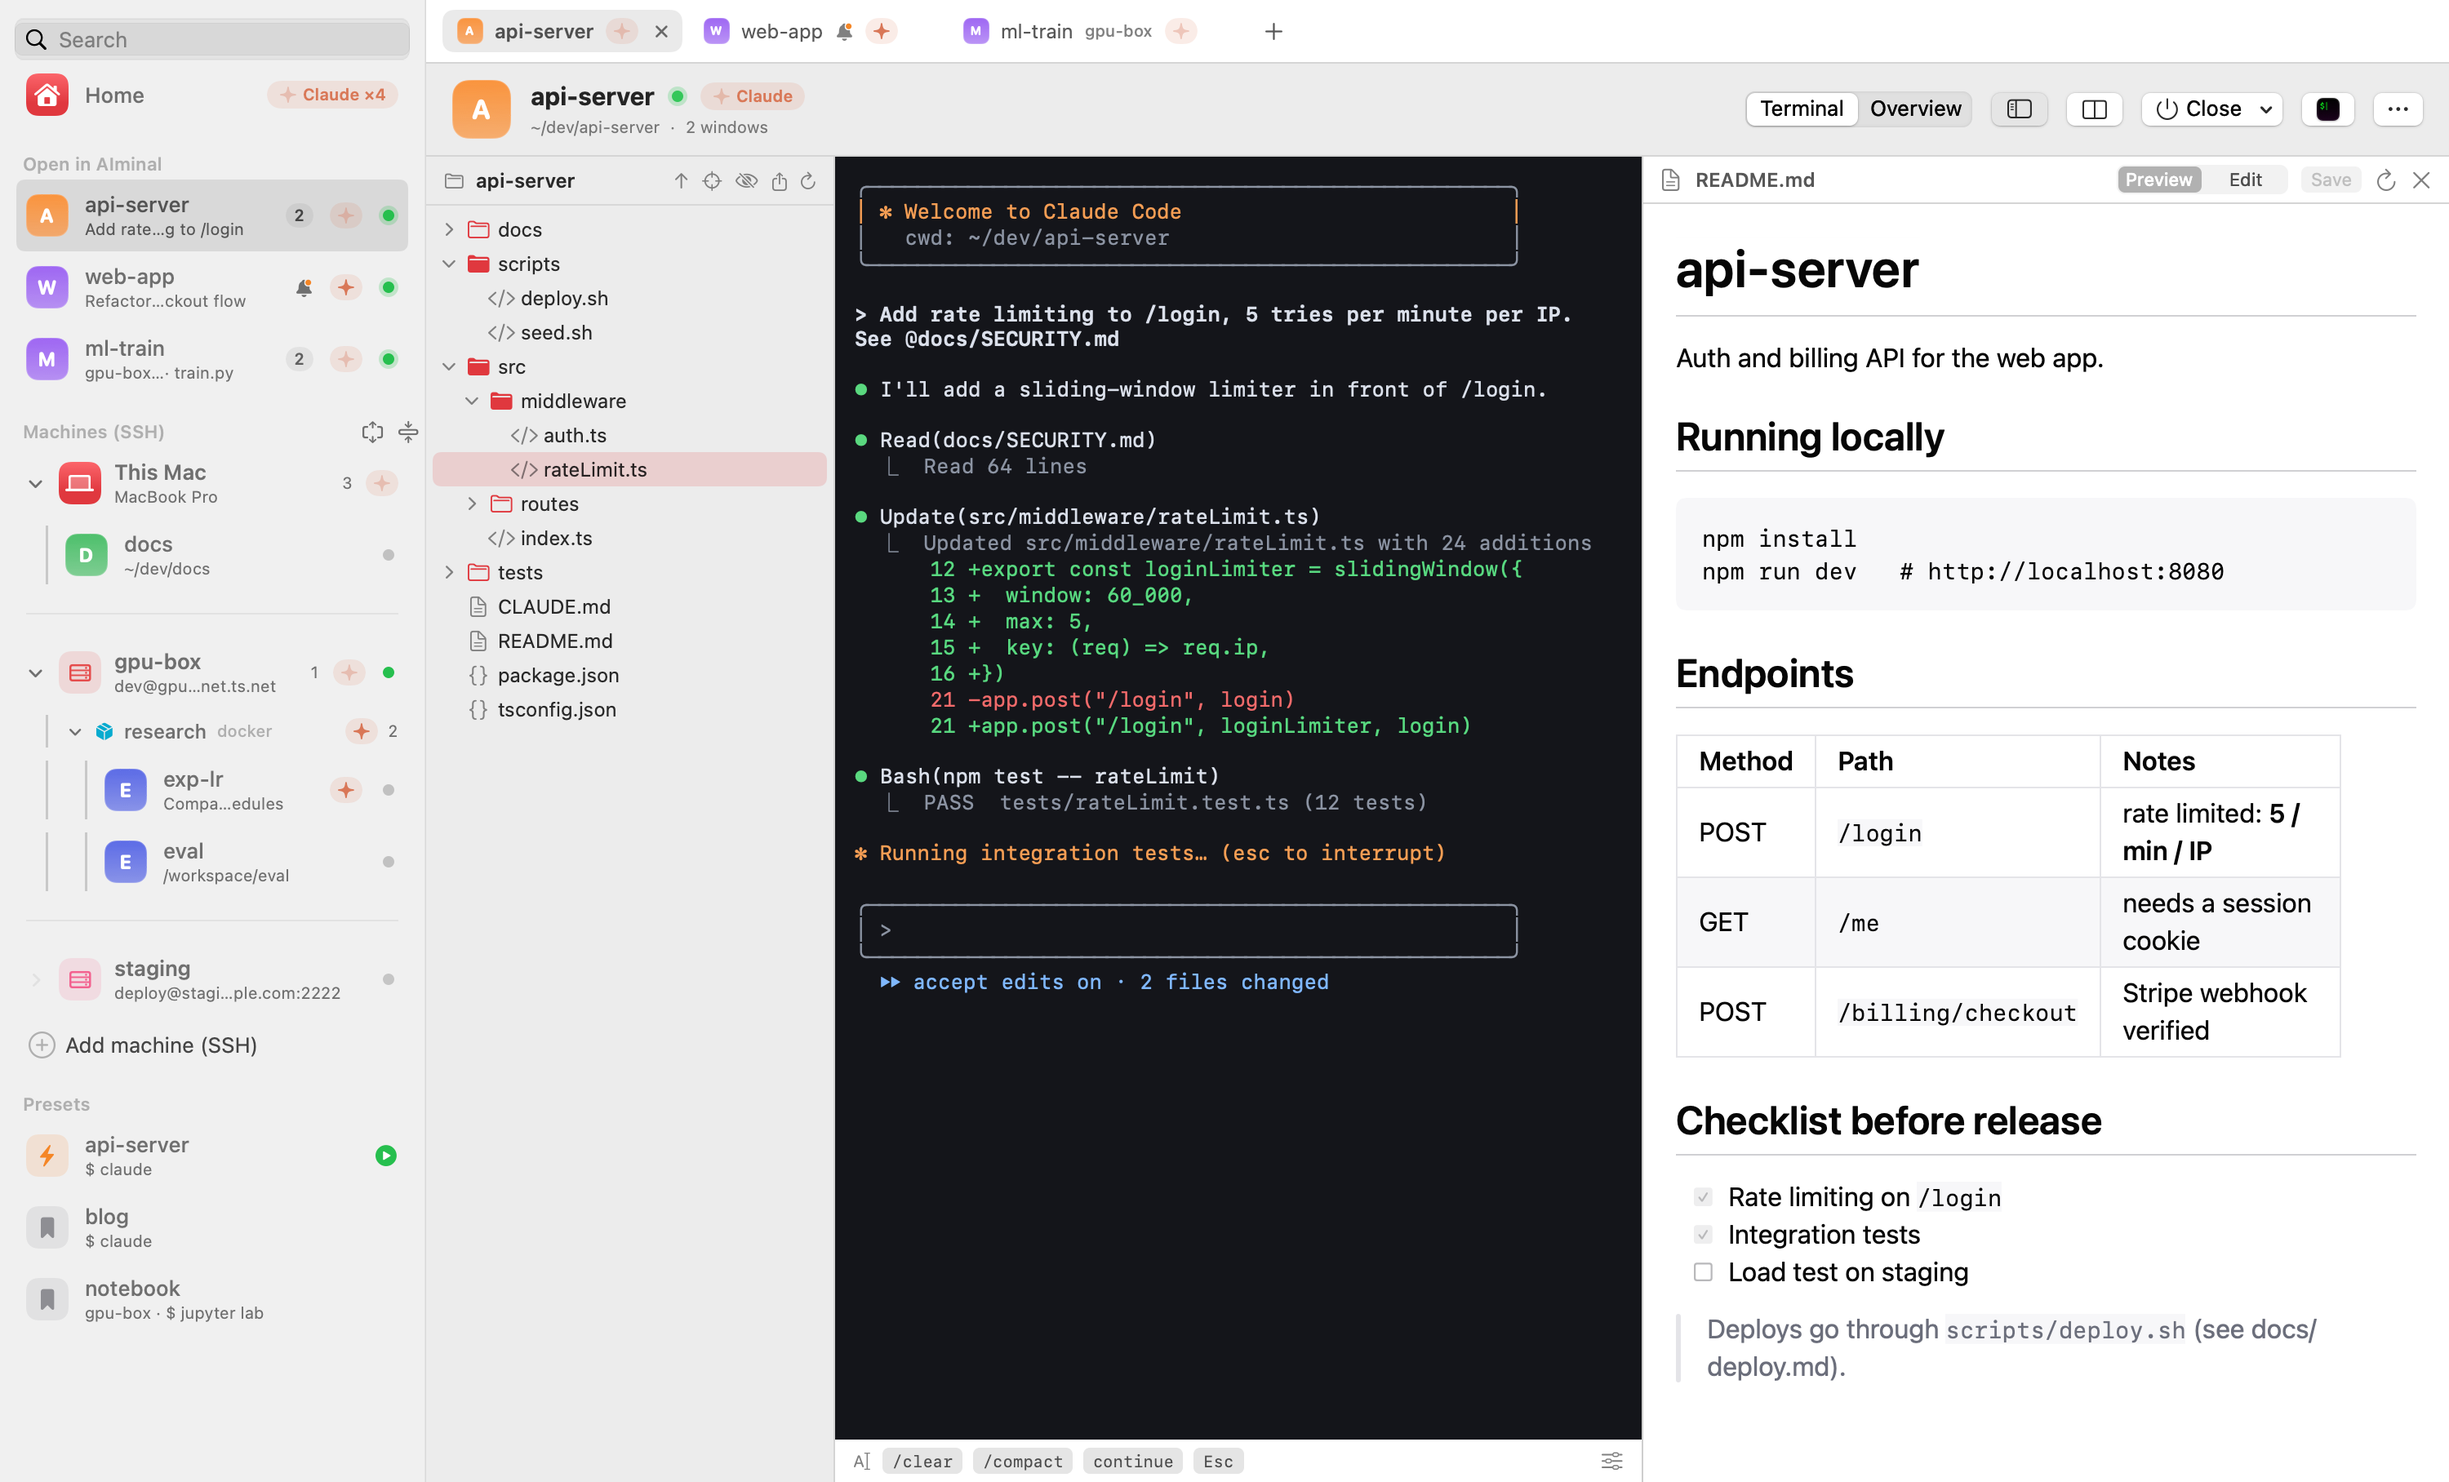
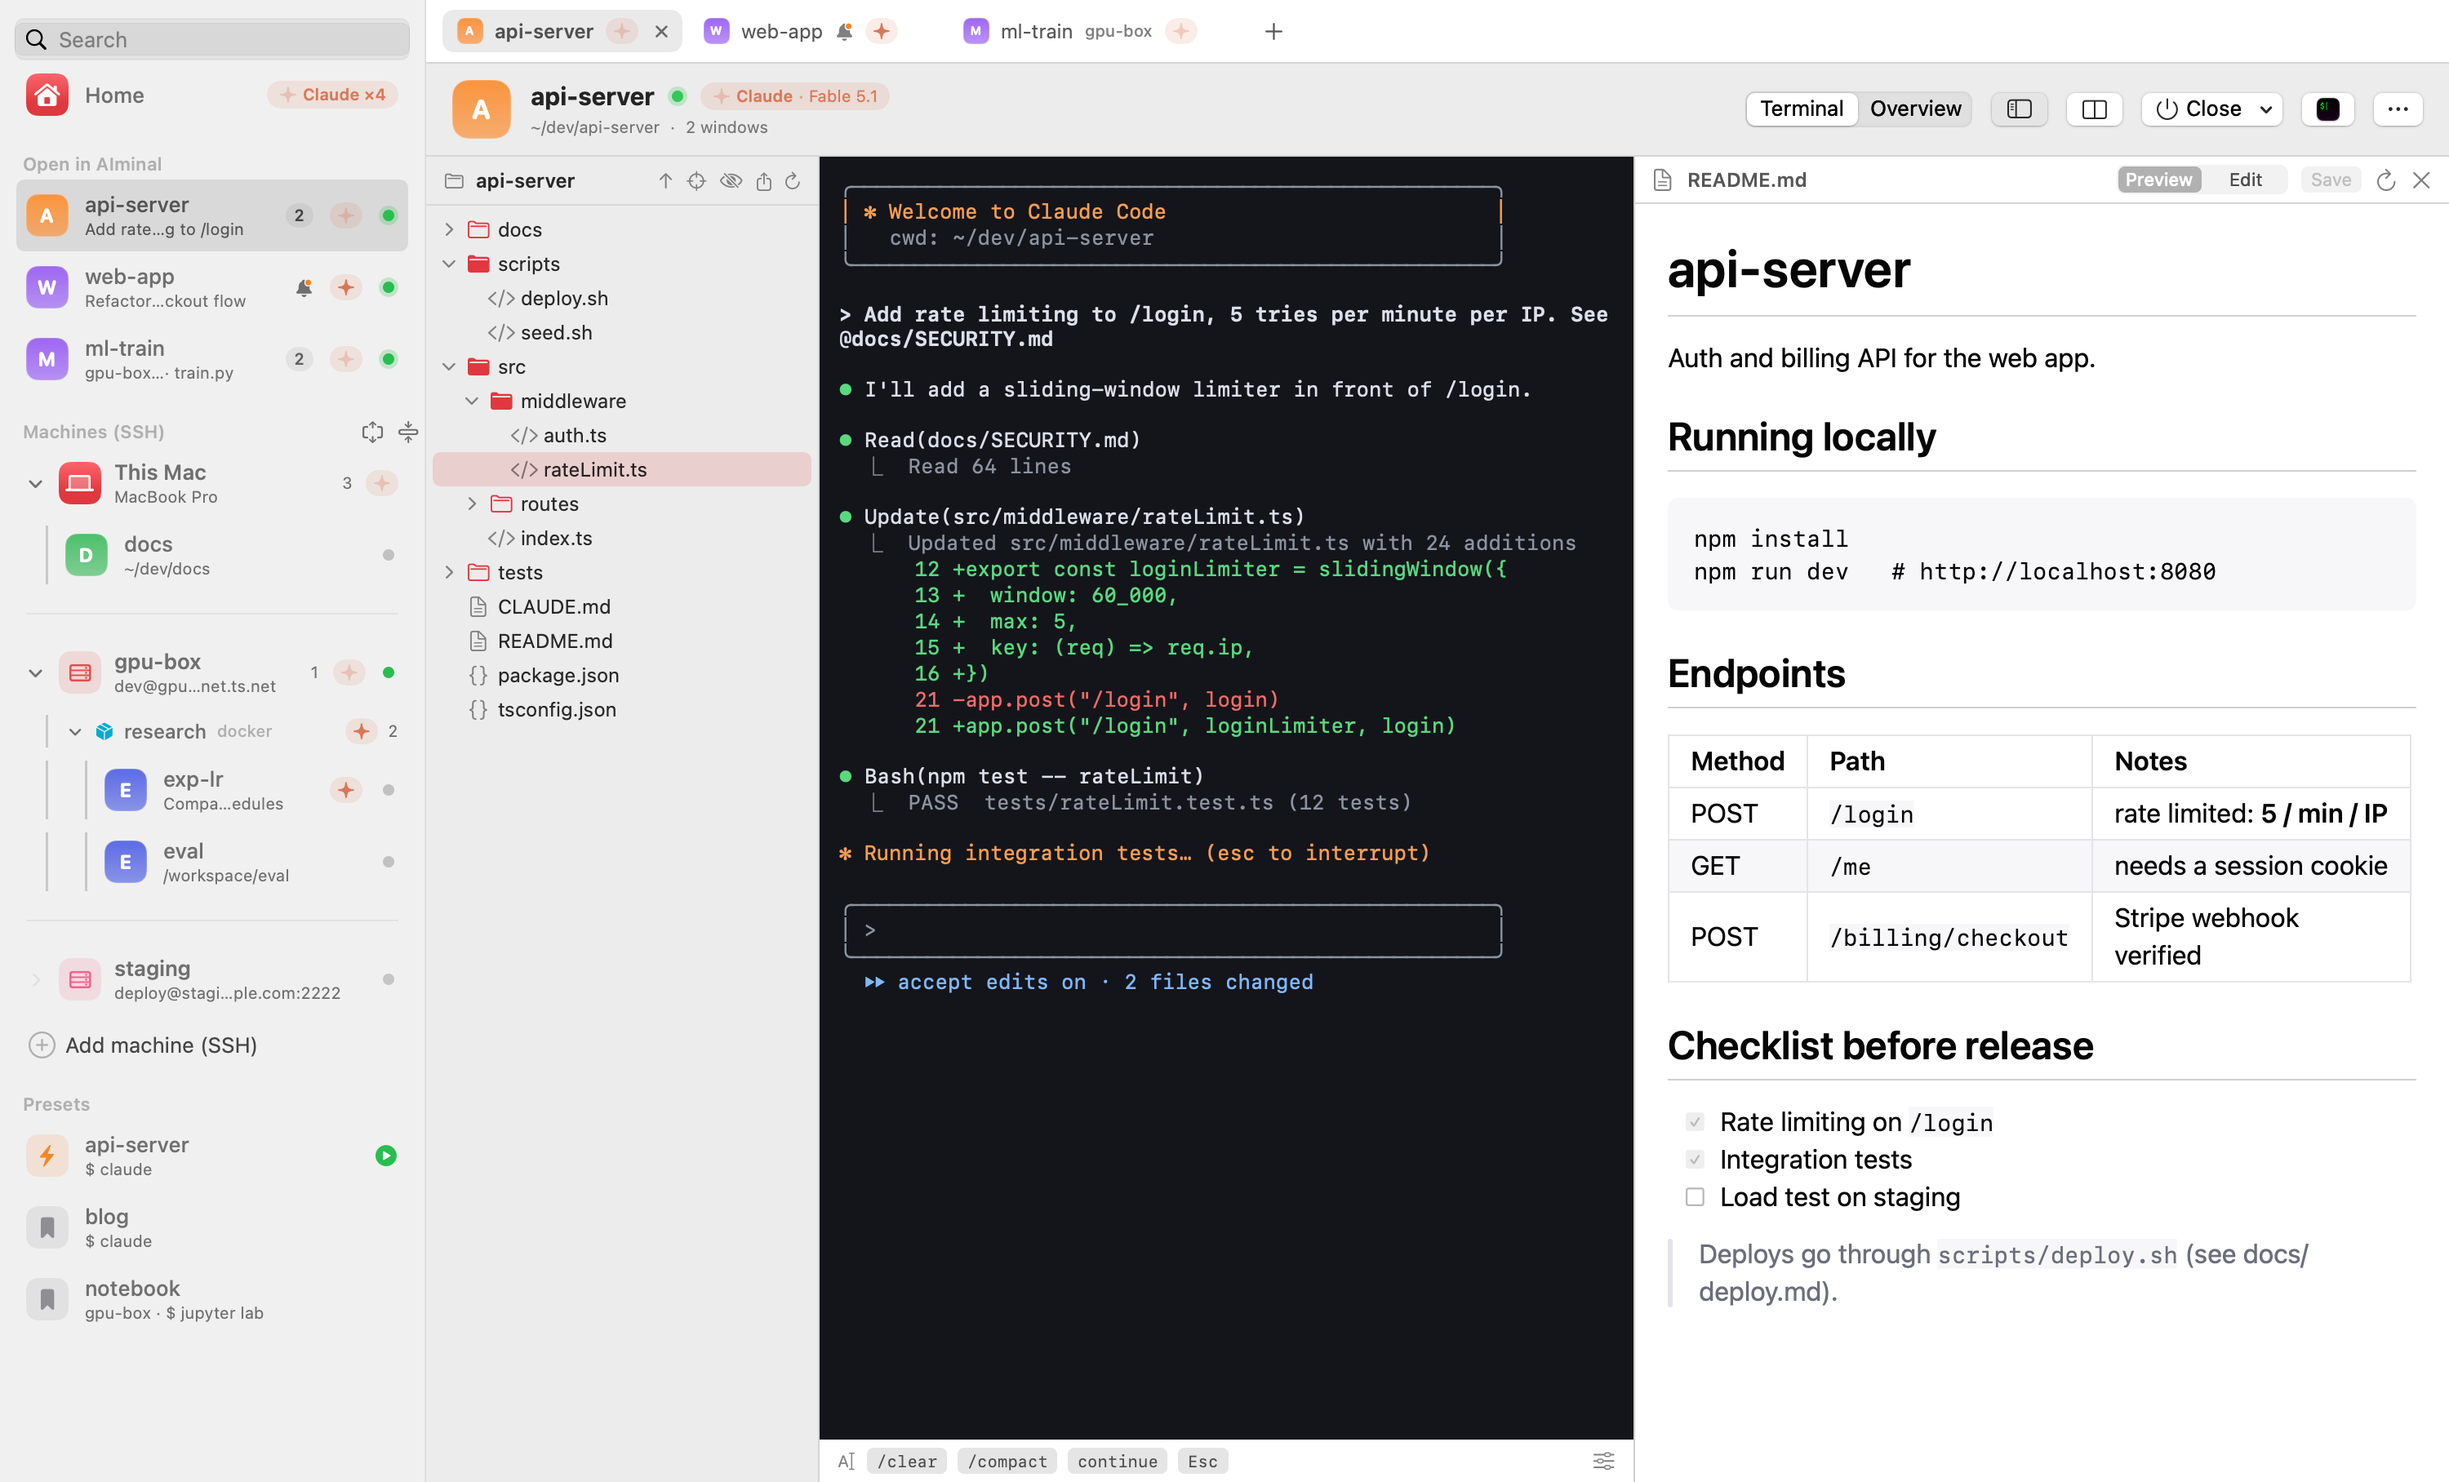
AIminal 0.12.1-beta

diff --git a/README.ko.md b/README.ko.md
@@ -23,7 +23,7 @@
 | | |
 |---|---|
 | 🏠 **모든 tmux 세션의 홈** | 이 Mac, SSH 서버, 그 안의 docker 컨테이너에 있는 모든 세션을 한 창에 실시간 카드로 |
-| 🤖 **Claude Code가 끝나면 알려줌** | 작업 중·대기 중·사용 한도 도달(풀리는 시간까지)을 구분. 원격 서버나 컨테이너 안이라도 끝나는 순간 알림 |
+| 🤖 **Claude Code가 끝나면 알려줌** | 작업 중·대기 중·사용 한도 도달(풀리는 시간까지)과 어떤 모델인지까지 구분. 원격 서버나 컨테이너 안이라도 끝나는 순간 알림 |
 | 🗂 **터미널 옆 파일 트리** | ⇧⌘E. 세션의 폴더를 따라감. Mac·서버·컨테이너 모두. 파일을 오른쪽 클릭해 Claude에게 `@경로`로 넘기기 |
 | ✏ **vim 없이 파일 편집** | `.md`, `.html`, `.sh`, `.py`, `.json`, `.yaml`… 더블클릭하면 터미널 옆에 구문 색상과 함께 열림. Markdown·HTML 미리보기, ⌘S로 서버에 바로 저장 |
 | ⬇⬆ **다운로드와 업로드** | 오른쪽 클릭으로 파일·폴더를 원하는 폴더에 내려받고, Finder에서 끌어다 올리기. 크기·퍼센트 진행률과 취소 버튼 |
@@ -107,7 +107,7 @@ AIminal은 그래서 만든 앱입니다:
 - **내장 터미널**: 어떤 tmux 세션이든 AIminal 안의 진짜 터미널에서 탭으로 열기. tmux 없는 일반 터미널도 가능(⌘T)
 - **명확한 닫기 동작**: 창 닫기(Ctrl-b d)는 세션을 계속 돌리고, Claude 종료(/exit)는 Claude만 끝내고, tmux 세션 종료는 전부 끝냄
 - **키보드 우선**: ⌘를 누르고 있으면 모든 단축키가 보이고, ⌘K로 세션·머신·명령 어디로든, ⌘1…⌘9로 탭, ⌘= / ⌘-로 터미널 확대·축소
-- **Claude Code 인식**: 어느 세션이 Claude(또는 `happy claude`)를 돌리는지, 작업 중인지 대기 중인지, docker 컨테이너 안이라도 보임. Claude가 끝나거나 사용 한도에 걸리면(풀리는 시간과 함께) 알림, 머신마다 어떤 계정·플랜으로 로그인돼 있는지 표시, **Claude 종료(/exit)**로 깔끔하게 끝내기
+- **Claude Code 인식**: 어느 세션이 Claude(또는 `happy claude`)를 돌리는지, 작업 중인지 대기 중인지, docker 컨테이너 안이라도 보임. Claude가 끝나거나 사용 한도에 걸리면(풀리는 시간과 함께) 알림, Claude마다 어떤 모델을 쓰는지(**Claude · Fable 5.1**)와 머신마다 어떤 계정·플랜으로 로그인돼 있는지 표시, **Claude 종료(/exit)**로 깔끔하게 끝내기
 - **머신**: 이 Mac과 `~/.ssh/config`의 머신들이 사이드바에 나란히. 연결(키 또는 비밀번호)하면 각 머신의 tmux 세션을 보고 열 수 있고, 머신 추가·편집도 앱 안에서. 머신당 SSH 세션 하나만 유지하므로 서버에는 로그인 한 번으로 보임
 - **docker 컨테이너**: tmux는 서버에 두고 작업은 컨테이너 안에서. 세션이나 프리셋에 컨테이너를 지정하면 AIminal이 `docker exec`로 대신 들어감(폴더와 시작 명령까지). 컨테이너 *안에서* 도는 tmux 세션도 찾아 `docker exec -it <컨테이너> tmux attach`로 열어줌. 머신 화면에 실행 중인 컨테이너 목록
 - **파일 트리**(⇧⌘E, 기본 표시): 세션의 폴더를 따라가는 폴더 트리가 터미널 옆에. 이 Mac, SSH 머신, 컨테이너 안 모두. 파일을 오른쪽 클릭해 경로를 터미널에 넣기(Claude에는 `@경로`). 파일·폴더 다운로드, Finder에서 끌어다 업로드, 진행률과 취소

diff --git a/README.md b/README.md
@@ -23,7 +23,7 @@
 | | |
 |---|---|
 | 🏠 **A home for all your tmux sessions** | Every session on this Mac, your SSH servers and the docker containers on them, as live cards in one window |
-| 🤖 **Knows when Claude Code is done** | Working, waiting, or stopped at the usage limit (with the reset time). A notification the moment it finishes, even on a remote server or inside a container |
+| 🤖 **Knows when Claude Code is done** | Working, waiting, or stopped at the usage limit (with the reset time), and which model it runs. A notification the moment it finishes, even on a remote server or inside a container |
 | 🗂 **File tree beside the terminal** | ⇧⌘E. Follows the session's folder, on your Mac, servers and containers. Right-click a file to hand it to Claude as `@path` |
 | ✏ **Edit files without vim** | Double-click a `.md`, `.html`, `.sh`, `.py`, `.json`, `.yaml`… to open it next to the terminal, with syntax colors. Markdown and HTML preview, ⌘S saves straight back to the server |
 | ⬇⬆ **Download and upload** | Right-click to download a file or folder to any folder you pick, drag from Finder to upload. A progress bar with size and percent, and a Cancel button |
@@ -107,7 +107,7 @@ AIminal is the app I wanted for that:
 - **Built-in terminal**: open any tmux session in a real terminal inside AIminal, with a tab for each one. Plain terminals without tmux work too (⌘T)
 - **Clear close actions**: Close window (Ctrl-b d) keeps the session running, Quit Claude (/exit) ends only Claude, End tmux session ends it all
 - **Keyboard first**: hold ⌘ to see every shortcut, ⌘K to jump to any session, machine or command, ⌘1…⌘9 for tabs, ⌘= / ⌘- to zoom the terminal
-- **Claude Code aware**: see which sessions run Claude (or `happy claude`) and whether it is working or waiting, even inside a docker container. Get a notification when Claude finishes or hits its usage limit (with the reset time), see which account and plan Claude is signed in with on each machine, and quit it cleanly with **Quit Claude (/exit)**
+- **Claude Code aware**: see which sessions run Claude (or `happy claude`) and whether it is working or waiting, even inside a docker container. Get a notification when Claude finishes or hits its usage limit (with the reset time), see which model each Claude is using (**Claude · Fable 5.1**) and which account and plan it is signed in with on each machine, and quit it cleanly with **Quit Claude (/exit)**
 - **Machines**: this Mac and your `~/.ssh/config` machines side by side in the sidebar. Connect (key or password) to see and open each machine's tmux sessions, and add or edit machines in the app. AIminal keeps one SSH session per machine, so your server sees a single login
 - **Docker containers**: keep tmux on the server and work inside a container. A session or preset can name a container, and AIminal runs `docker exec` into it for you (with your folder and startup command). AIminal also finds the tmux sessions running *inside* each container and opens them with `docker exec -it <container> tmux attach`. Each machine page lists its running containers
 - **File tree** (⇧⌘E, shown by default): a folder tree beside the terminal that follows the session's folder, on this Mac, SSH machines and inside containers. Right-click a file to type its path into the terminal (as `@path` for Claude). Download files and folders, or drag them in from Finder to upload, with a progress bar and Cancel

diff --git a/GUIDE.md b/GUIDE.md
@@ -200,6 +200,7 @@ AIminal notices Claude Code in any tmux window: on this Mac, over SSH, and insid
 - **Working or waiting.** While Claude works, its status line says "esc to interrupt"; AIminal reads the bottom of the pane every few seconds. (Inside tmux, Claude keeps its window title fixed, so the title alone can't tell.)
 - **Finished.** When Claude goes from working to waiting in a session you aren't looking at, you get a notification with the task name, a bell on the session, and a Dock badge. Click the notification to jump to it.
 - **Usage limit.** When Claude stops at its usage limit ("Usage limit reached · resets 8:50pm"), the session shows ⚠ **Limit · 8:50pm** and you get one notification instead of "finished".
+- **Model.** The Claude badge on cards, session headers and window cards says which model that Claude is using, like **Claude · Fable 5.1** or **Opus 5.5** (the full id is in the tooltip). AIminal reads it from Claude Code's own session files (`~/.claude/sessions`, and the last reply in the session's transcript); it never reads your conversation or tokens. If a session's windows use different models, both are listed.
 - **Account.** Machine pages, container rows and Claude session headers show which account Claude Code is signed in with there, and its plan (for example `you@example.com · Max 5x`). AIminal reads this from `~/.claude.json`; it never reads tokens.
 - **Happy.** Sessions started with `happy claude` show **Happy**. In Happy's remote mode (the phone screen), Claude's own screen is hidden, so AIminal can't tell when it is working; the badge says so.
 - **Trust prompt.** In a folder Claude hasn't been trusted in yet, Claude waits on a "trust this folder?" prompt; AIminal shows it as waiting.
@@ -295,4 +296,4 @@ Errors and warnings are saved to `~/Library/Logs/AIminal/aiminal.log` (it opens 
 | `~/Library/Logs/AIminal/aiminal.log` | logs |
 | `~/Downloads` | files you download from the file tree |
 
-AIminal never stores passwords. On each machine it reads tmux's state, the process list, the bottom of each pane's screen, the running containers, and the account fields of `~/.claude.json` (email and plan, not tokens). It sends nothing anywhere except the update check to GitHub.
+AIminal never stores passwords. On each machine it reads tmux's state, the process list, the bottom of each pane's screen, the running containers, the account fields of `~/.claude.json` (email and plan, not tokens), and the model name from Claude Code's session files (not the conversation). It sends nothing anywhere except the update check to GitHub.

diff --git a/CHANGELOG.md b/CHANGELOG.md
@@ -1,5 +1,20 @@
 # Changelog
 
+## 0.12.1-beta
+
+### New
+
+- **Claude model badge.** Every Claude badge (home cards, session header, window cards; tooltip in the sidebar and tabs) now says which model that Claude is using, like **Claude · Fable 5.1**. AIminal reads it from Claude Code's own session files on each machine and container (`~/.claude/sessions` plus the last reply in the transcript), never the conversation or tokens
+- **Happy remote mode** (phone screen) now shows working/waiting too, using Claude Code's own busy/idle state instead of the hidden screen
+
+### Fixed
+
+- **Korean (non-ASCII) session names and folders on remote machines.** macOS turned them into decomposed characters on the way to `ssh`, so tmux on a Linux server reported "session not found" for rename, /exit and new sessions. Every command now goes through the same byte-safe path the file browser already used
+- An upload whose target folder doesn't exist (or isn't writable) now fails with the server's message right away instead of hanging in the transfer list
+- A command that printed a lot to stderr could hang the refresh forever; stderr is now read concurrently
+- **Unsaved edits are no longer lost silently.** Closing a tab, "Close All Panes", or quitting AIminal first asks to save each changed file; if a terminal ends on its own, its unsaved editor panes move to the next tab
+- The updater refuses a release that has no checksum file instead of installing it unverified
+
 ## 0.12.0-beta
 
 ### Aiminal is now spelled AIminal
